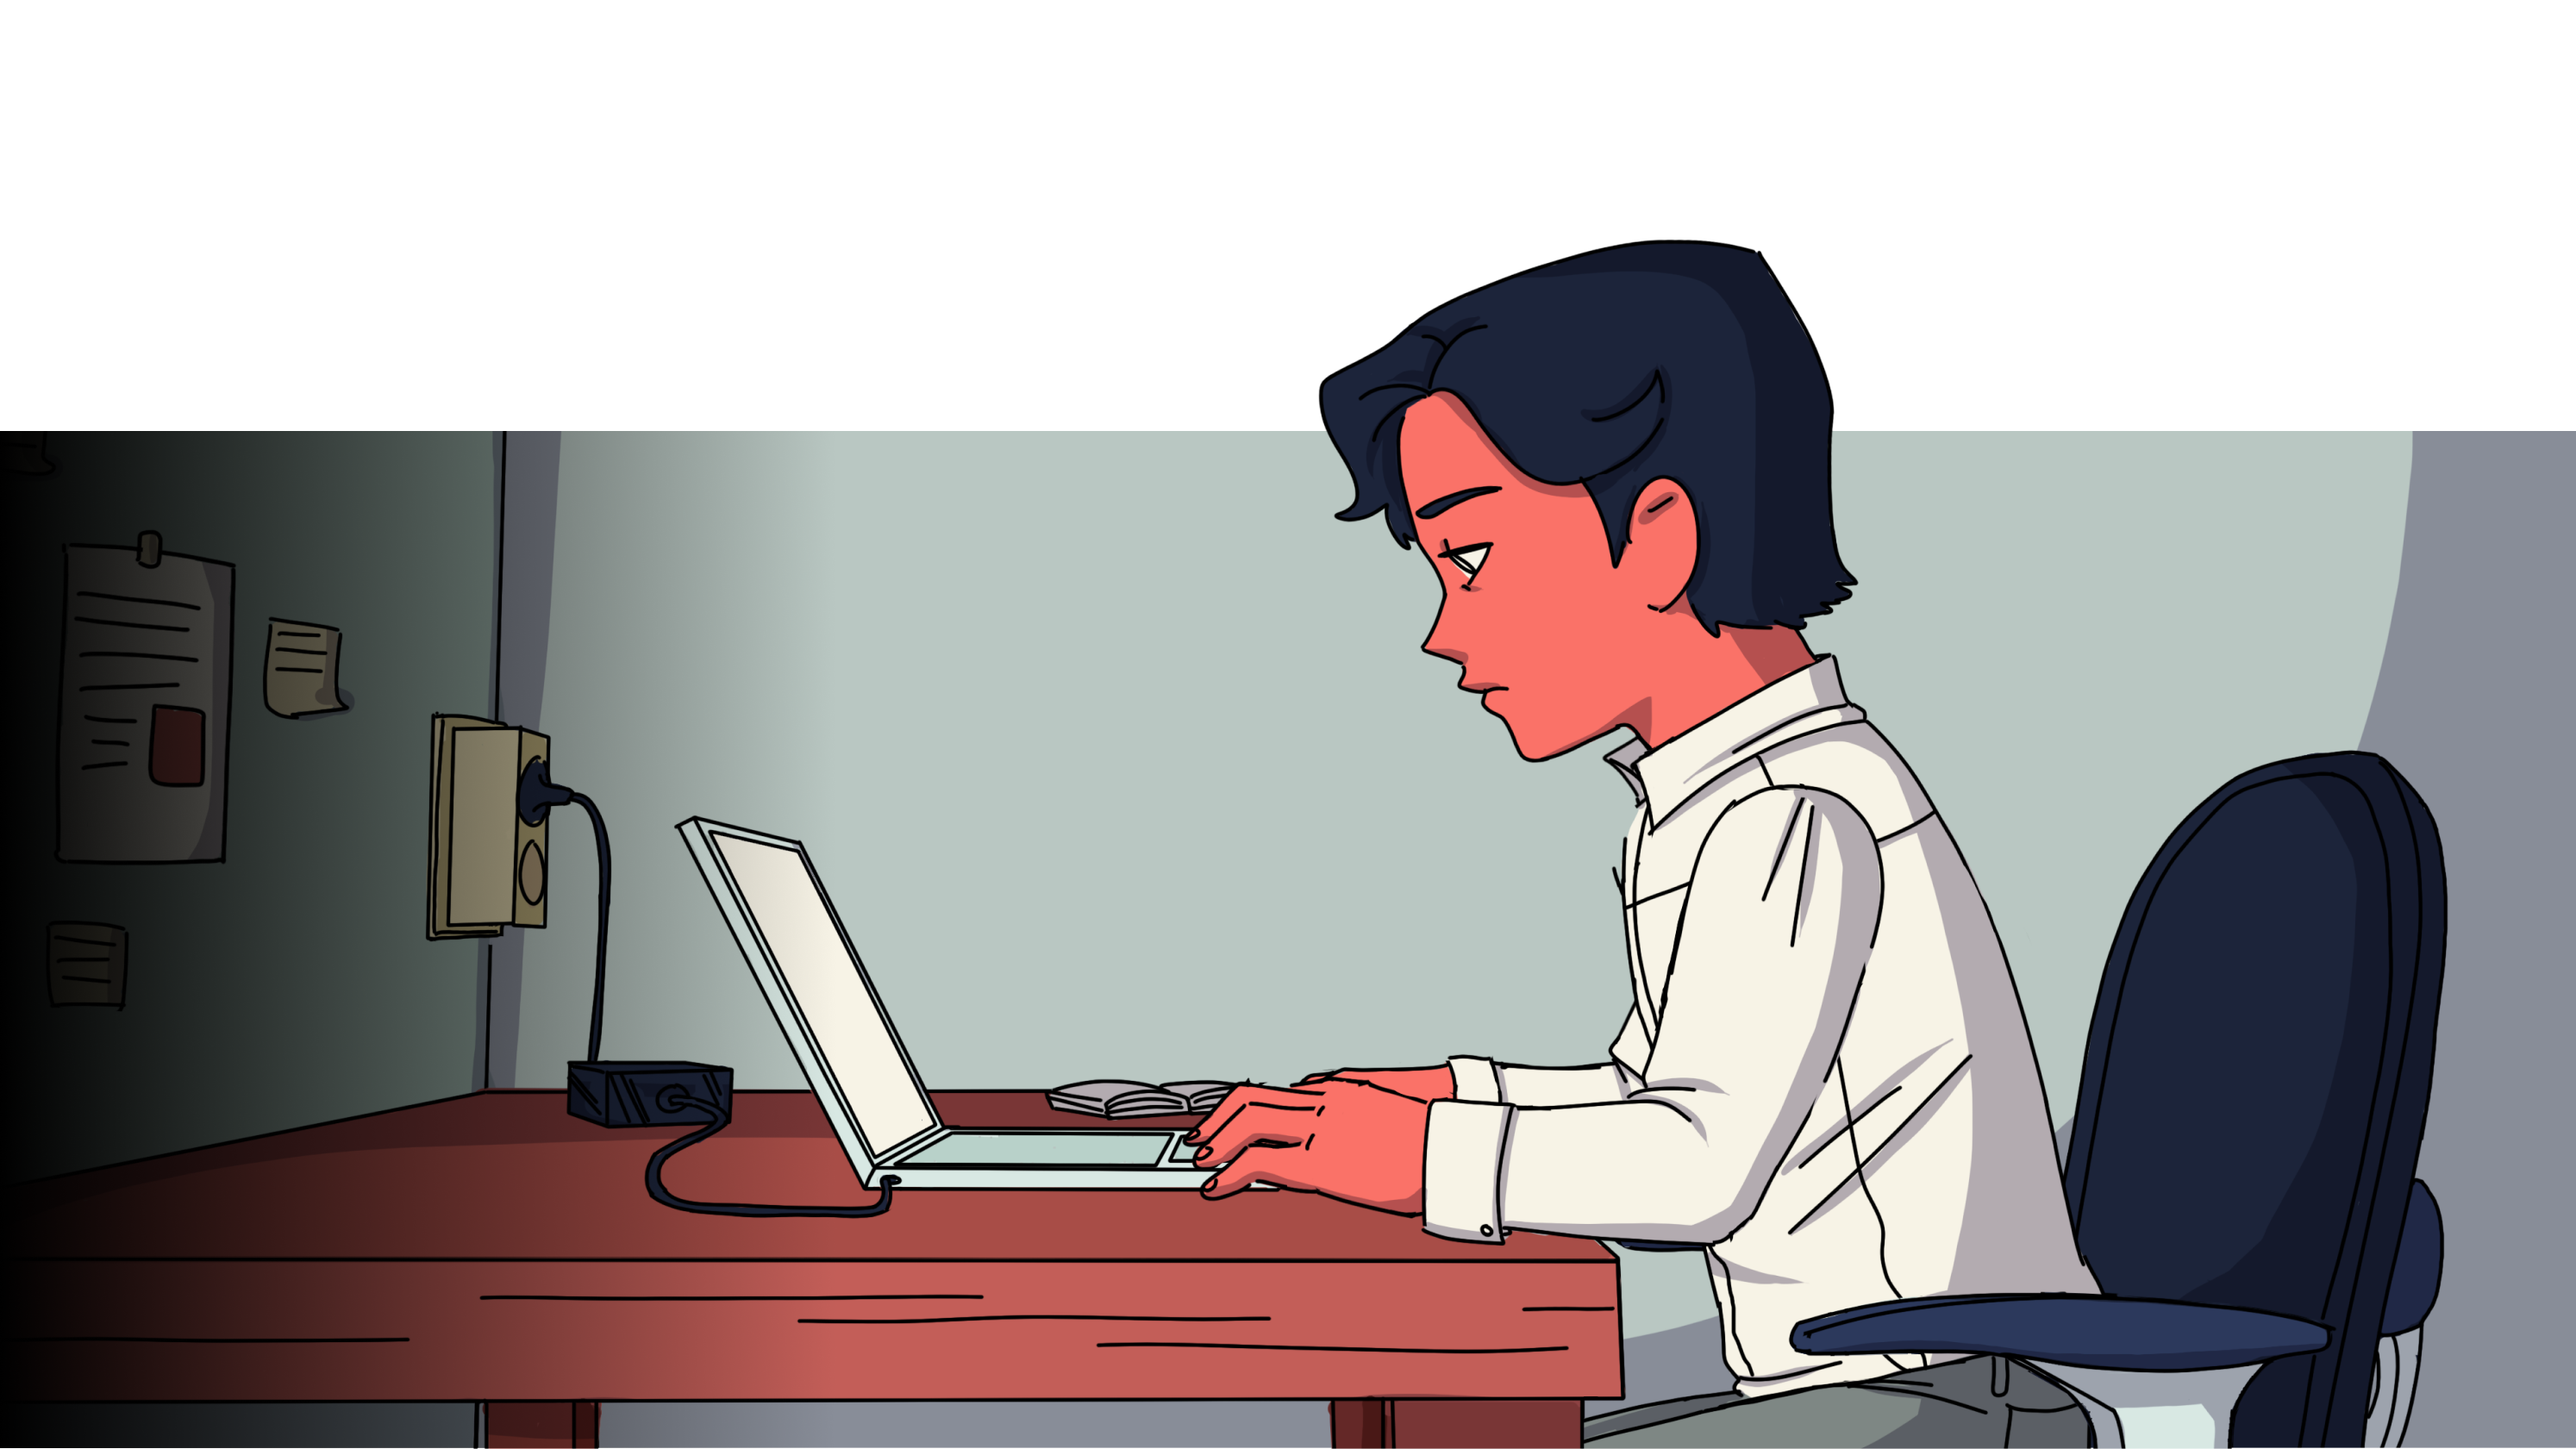
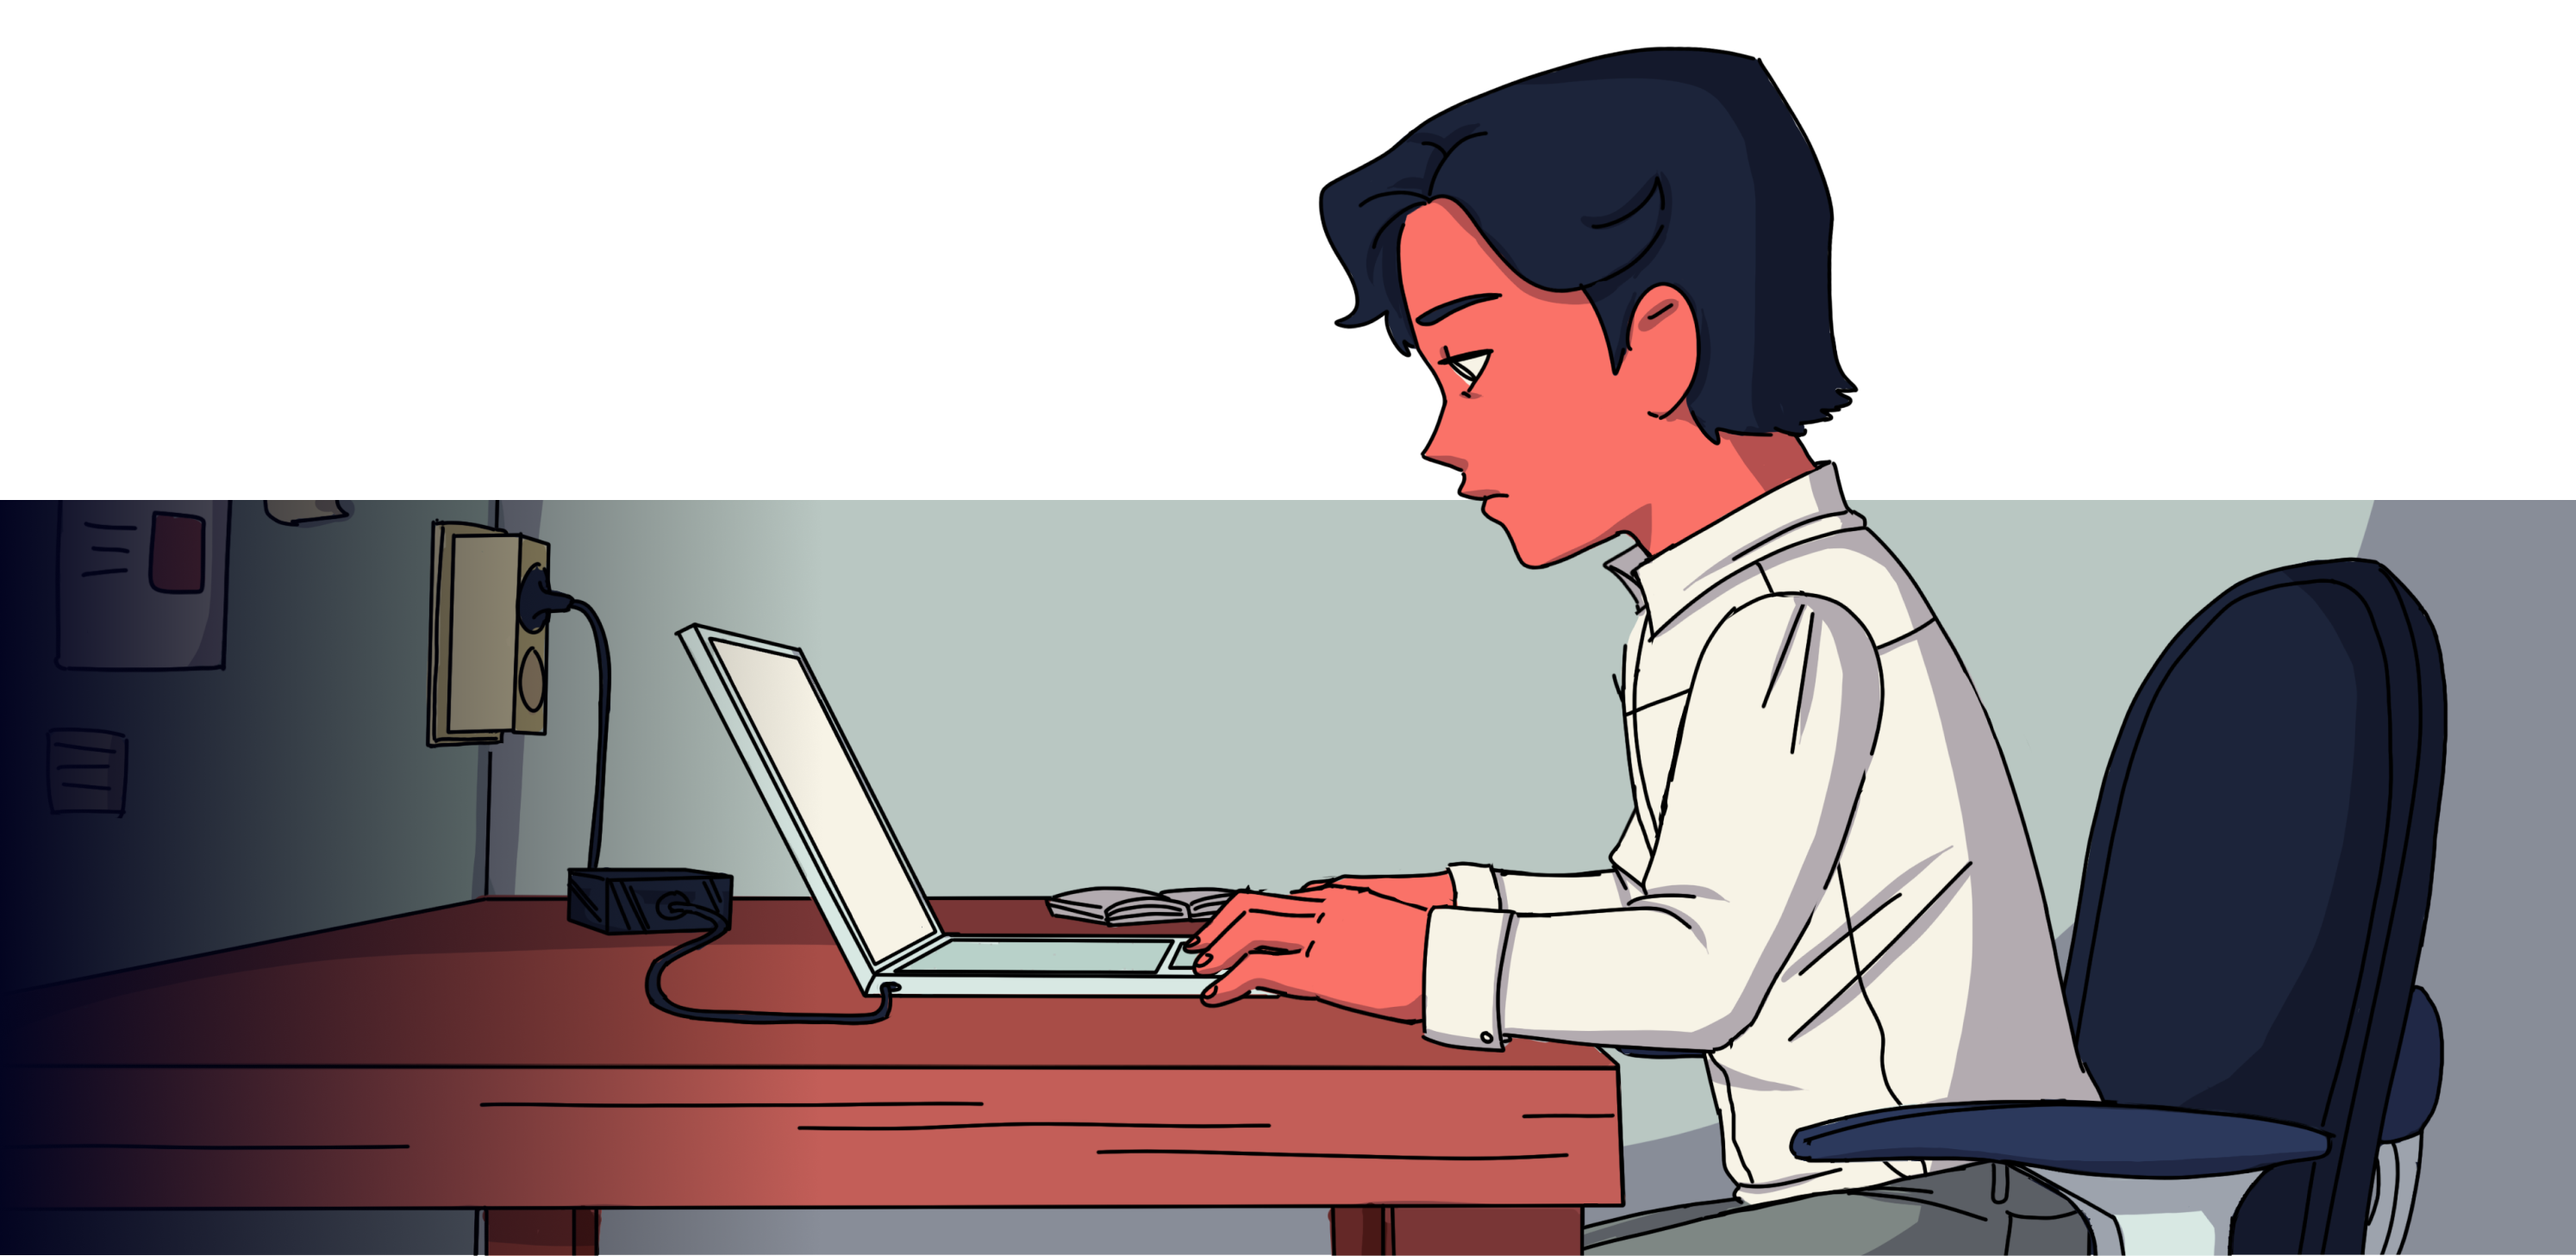
work on svg animation, added title animation, edited images and cleaned up css

diff --git a/css/style.css b/css/style.css
@@ -47,11 +47,18 @@ table {
 	border-spacing: 0;
 }
 
+/*****************/
 /* end css reset */
+/*****************/
 
-/* general styling */
 
 
+/*******************/
+/* General styling */
+/*******************/
+
+
+/* base colors for entire website */
 :root {
 	--text-color: rgb(0, 0, 0);
 	--text-color-alt: rgb(255, 255, 255);
@@ -69,6 +76,8 @@ body {
 	width: 100%;
 
 	font-family: "poppins", sans-serif;
+
+	font-size: 14px;
 }
 
 main {
@@ -90,7 +99,11 @@ img {
 
 /* --- */
 
+
+
+/**********/
 /* navbar */
+/**********/
 
 nav {
 	position: fixed;
@@ -121,22 +134,38 @@ nav > ul a {
 
 /* --- */
 
+
+
+/**********/
 /* header */
+/**********/
+
 
 #home header > section {
 
 	margin: 8em 0 0 8%;
 	display: flex;
 	flex-direction: column;
+
+	position: relative;
 }
 
 header > section > h1 {
-	font-size: 3em;
-	font-weight: 900;
+    font-size: 3em;
+    font-weight: 900;
+    line-height: 1.1em;
+    word-break: break-word;
+    max-width: 100%;
+    letter-spacing: .7em;
+    word-spacing: 100vw;
+	animation: wordspace 1s ease-in-out forwards;
+}
 
-	line-height: 1.1em;
-	word-break: break-word;
-	max-width: 8em;
+/* title animation */
+@keyframes wordspace {
+	to{
+		letter-spacing: 0em;
+	}
 }
 
 #home header > section > h2 {
@@ -148,6 +177,7 @@ header > section > h1 {
 	line-height: 2em;
 }
 
+/* profile image before name */
 #home header > section > h2::before {
 	content: "";
 	background: url(../images/profile.jpg);
@@ -166,23 +196,71 @@ header > section > h1 {
 
 /* --- */
 
+
+
+/***************/
 /* home - work */
+/***************/
 
 #home > section, #home > main > section{
 	display: flex;
 	flex-wrap: wrap;
 
-	margin-top: 5em;
+	margin-top: 15em;
 }
 
-/* project block */
+#home section {
+	position: relative;
+}
+
+/* title card "my work" */
+#home  section > aside {
+	position: absolute;
+    top: 6.35em;
+    right: -4em;
+	color: red;
+	width: 8em;
+
+	font-size: 1.5em;
+
+	transform: rotate(90deg) scaleY(0);
+	transform-origin: bottom;
+	animation: scale .5s ease-in-out forwards;
+}
+
+@keyframes scale {
+	to {
+		transform: rotate(90deg) scaleY(1);
+	}
+}
+
+/* project blocks */
 #home section > figure {
 	position: relative;
 	margin-top: 3em;
+	transition: .2s ease-in-out;
+	transform-origin: center bottom;
+}
+
+/* ::after for box shadow */
+#home section > figure::after {
+	content: "";
+	position: absolute;
+
+	width: 100%;
+    height: 59%;
+    bottom: 6px;
+	left: 0;
+
+	box-shadow: 8px 8px 10px rgb(0, 0, 0, 10%);
 }
 
 #home section > figure:first-of-type {
-	margin-top: 1em;
+	margin-top: -3em;
+}
+
+#home section > figure:hover {
+	transform: scale(1.03);
 }
 
 /* text inside block */
@@ -231,35 +309,46 @@ header > section > h1 {
 
 /* --- */
 
+
+
+/************/
 /* About me */
+/************/
 
- #home  article {
-	 margin-top: 4em;
- }
+#home  article {
+	margin-top: 4em;
+}
 
- /* --- */
+/* --- */
 
 
- /* Footer */
 
- footer {
-	 margin-top: 4em;
-	 padding: 3em 8% 0 8%;
-	 height: 10em;
+/***********/
+/*  Footer */
+/***********/
 
-	 color: var(--text-color-alt);
-	 background-color: var(--text-color);
- }
+footer {
+	margin-top: 4em;
+	padding: 3em 8% 0 8%;
+	height: 10em;
 
- footer > section > a {
-	 color: var(--text-color-alt);
-	 margin-top: 1em;
+	color: var(--text-color-alt);
+	background-color: var(--text-color);
+}
 
-	 display: inline-block;
- }
- /* --- */
+footer > section > a {
+	color: var(--text-color-alt);
+	margin-top: 1em;
 
- /* project page */
+	display: inline-block;
+}
+/* --- */
+
+
+
+/****************/
+/* project page */
+/****************/
 
 #projectPage header > section {
 	position: relative;
@@ -305,10 +394,15 @@ iframe {
 	width: 100%;
 }
 
- /* --- */
+/* --- */
+
+svg {
+display: none;
+}
+
  
 
- @media only screen and (min-width: 820px) {
+@media only screen and (min-width: 820px) {
 	main {
 		margin: auto;
 		max-width: 50em;
@@ -329,28 +423,32 @@ iframe {
 		max-width: 50em;
 		
 	}
-  }
 
-svg {
-    position: absolute;
-    right: 130px;
-    top: 150px;
-    z-index: 10;
-    height: 438%;
+	svg {
+		display: block;
+		position: absolute;
+		right: -108px;
+		top: 30px;
+		z-index: 0;
+		width: 75%;
+	}
+	
+	#path1 {
+		stroke-dasharray: 866.16;
+		stroke-dashoffset: 866.16;
+	
+		animation: dashoffset 1s ease-in-out forwards;
+		animation-delay: 1.5s;
+	}
+	
+	@keyframes dashoffset {
+		from {
+		  stroke-dashoffset: 866.16;
+		  stroke-dasharray: 866.16;
+		}
+		to {
+		  stroke-dashoffset: var(--stroke-dashoffset);
+		  stroke-dasharray: var(--stroke-dasharray);
+		}
+	  }
 }
-
-#path1 {
-	stroke-dasharray: var(--stroke-dasharray);
-	stroke-dashoffset: var(--stroke-dashoffset);
-
-	animation: dash 1s ease-in-out forwards;
-}
-
-@keyframes dash {
-    from {
-      stroke-dashoffset: 866.16;
-    }
-    to {
-      stroke-dashoffset: var(--stroke-dashoffset);
-    }
-  }

diff --git a/index.html b/index.html
@@ -37,40 +37,37 @@
       <section>
         <h1>Front-end, Design, Illustration.</h1>
         <h2>Sasja Koning</h2>
+
+        <svg
+          version="1.1"
+          xmlns="http://www.w3.org/2000/svg"
+          xmlns:xlink="http://www.w3.org/1999/xlink"
+          viewBox="0 0 148.1 611.2"
+          xml:space="preserve"
+        >
+          <g>
+            <path
+              fill="none"
+              stroke="red"
+              stroke-linecap="round"
+              id="path1"
+              d="M0.5,12.2c3.6,0,3.6,2.4,7.1,2.4c3.6,0,3.6-6,7.1-6c3.6,0,3.6,10,7.1,10c3.6,0,3.6-18,7.1-18
+              c3.6,0,3.6,24,7.1,24c3.6,0,3.6-14,7.1-14c3.6,0,3.6,7,7.1,7c3.6,0,3.6-12,7.1-12c3.6,0,3.6,18,7.1,18c3.6,0,3.6-13,7.1-13
+              s3.6,7,7.1,7c3.6,0,3.6-7,7.1-7c3.6,0,3.6,4,7.1,4c3.6,0,5.6-3,9.1-3c3.6,0,6.6,2,10.1,2c3.6,0,4.9-1,12.1-1
+              c21.1,0,20.8,28.9,20.8,63.3c0,10.4-2,16-2,18c0,5.2,4,6,4,8c0,2-4,4-4,6c0,2,4,1,4,3c0,2-4,1-4,3c0,2,4,1,4,3c0,2-4,1-4,3
+              c0,2,4,1,4,3c0,2-4,1-4,3c0,2,4,1,4,3c0,2-4,1-4,3c0,2,4,1,4,3c0,2-4,2-4,4c0,2,4,3,4,5c0,2-4,3-4,5c0,2,4,4,4,6s-2.1,5.6-2.1,10.3
+              v356.1c0,2-2,2-2,4c0,2,4,2,4,3.9c0,2-3,3-3,4.9c0,2,2.5,2,2,4.9c-1,6.1-1,6.1-1,16.9"
+            />
+          </g>
+        </svg>
       </section>
     </header>
 
     <main>
-
-      <!-- Generator: Adobe Illustrator 24.2.3, SVG Export Plug-In  -->
-      <svg
-        version="1.1"
-        xmlns="http://www.w3.org/2000/svg"
-        xmlns:xlink="http://www.w3.org/1999/xlink"
-        x="0px"
-        y="0px"
-        viewBox="0 0 148.1 611.2"
-        style="overflow: visible; enable-background: new 0 0 148.1 611.2"
-        xml:space="preserve"
-      >
-        <defs></defs>
-        <g>
-          <path
-            fill="none"
-            stroke="red"
-            id="path1"
-            d="M0.5,12.2c3.6,0,3.6,2.4,7.1,2.4c3.6,0,3.6-6,7.1-6c3.6,0,3.6,10,7.1,10c3.6,0,3.6-18,7.1-18
-   c3.6,0,3.6,24,7.1,24c3.6,0,3.6-14,7.1-14c3.6,0,3.6,7,7.1,7c3.6,0,3.6-12,7.1-12c3.6,0,3.6,18,7.1,18c3.6,0,3.6-13,7.1-13
-   s3.6,7,7.1,7c3.6,0,3.6-7,7.1-7c3.6,0,3.6,4,7.1,4c3.6,0,5.6-3,9.1-3c3.6,0,6.6,2,10.1,2c3.6,0,4.9-1,12.1-1
-   c21.1,0,20.8,28.9,20.8,63.3c0,10.4-2,16-2,18c0,5.2,4,6,4,8c0,2-4,4-4,6c0,2,4,1,4,3c0,2-4,1-4,3c0,2,4,1,4,3c0,2-4,1-4,3
-   c0,2,4,1,4,3c0,2-4,1-4,3c0,2,4,1,4,3c0,2-4,1-4,3c0,2,4,1,4,3c0,2-4,2-4,4c0,2,4,3,4,5c0,2-4,3-4,5c0,2,4,4,4,6s-2.1,5.6-2.1,10.3
-   v416.1c0,0-0.2,26.7-23.8,26.7"
-          />
-        </g>
-      </svg>
-
       <section>
-        <h2>My work</h2>
+          <aside>
+            <h2>My work</h2>
+          </aside>
         <figure>
           <picture>
             <source

diff --git a/js/script.js b/js/script.js
@@ -46,4 +46,4 @@ setTimeout(() => {
       );
     }
   });
-}, 1000);
+}, 2500);
